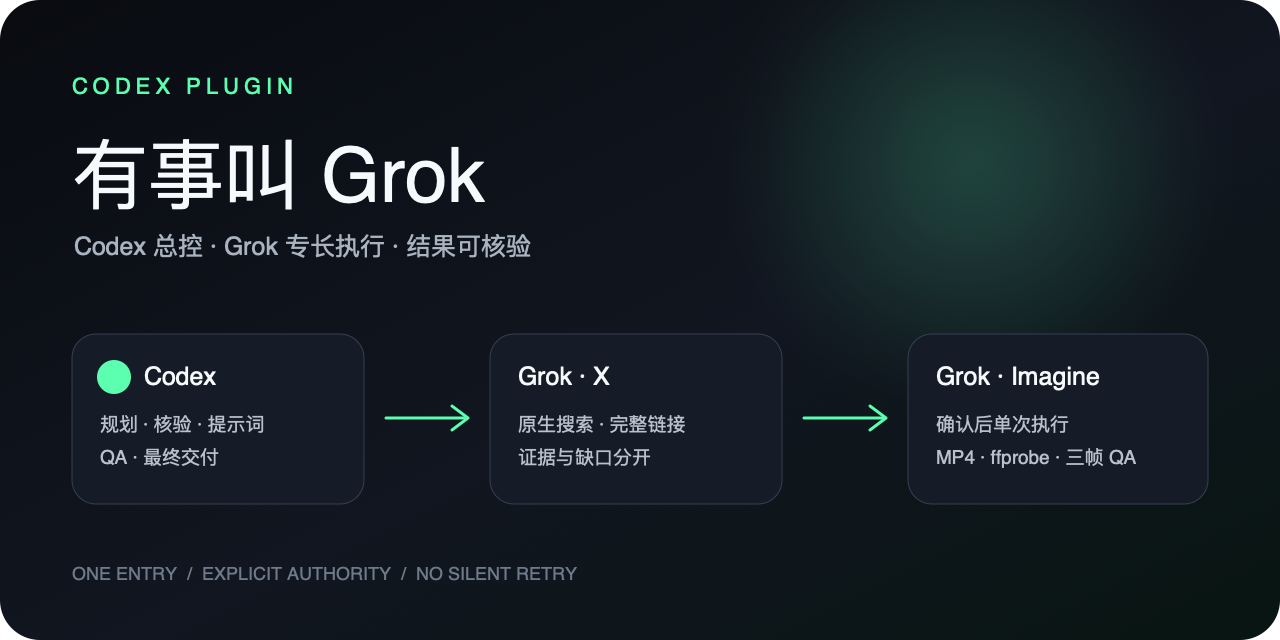
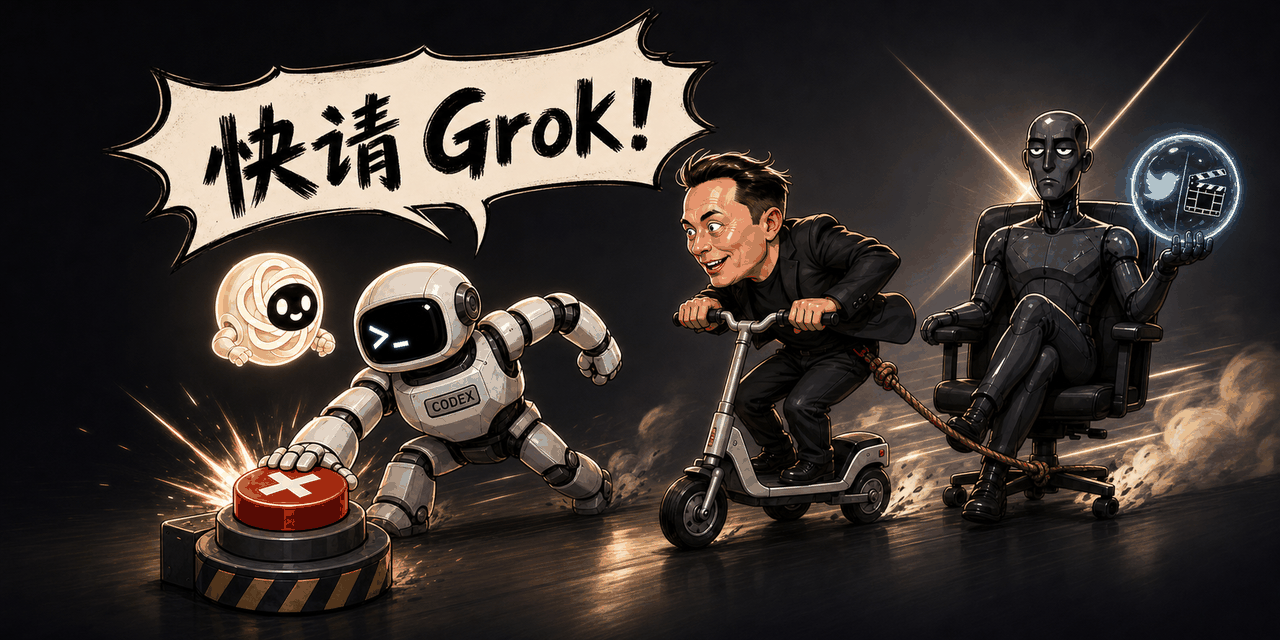
feat: refresh brand as 快请 Grok (#2)

diff --git a/plugins/call-grok/skills/call-grok/SKILL.md b/plugins/call-grok/skills/call-grok/SKILL.md
@@ -1,9 +1,9 @@
 ---
 name: call-grok
-description: Call Grok only when its distinctive capability is useful, while Codex remains the coordinator. Use when a user says to call, use, ask, install, configure, log in to, or troubleshoot Grok/Grok CLI; when X/Twitter-native intelligence is needed; or when a confirmed Grok Imagine video execution should be handed off. Detect a missing CLI, guide an authorized user-level install and OAuth login, preserve the original request, and resume it through grok-x or grok-video. The memorable user-facing idea is "有事叫 Grok".
+description: Call Grok only when its distinctive capability is useful, while Codex remains the coordinator. Use when a user says to call, use, ask, install, configure, log in to, or troubleshoot Grok/Grok CLI; when X/Twitter-native intelligence is needed; or when a confirmed Grok Imagine video execution should be handed off. Detect a missing CLI, guide an authorized user-level install and OAuth login, preserve the original request, and resume it through grok-x or grok-video. The memorable user-facing idea is "快请 Grok".
 ---
 
-# 有事叫 Grok
+# 快请 Grok
 
 Keep Codex as the planner, verifier, and final deliverer. Use Grok only for its distinct X-native retrieval, an explicitly requested independent opinion, or confirmed Imagine video execution.
 

diff --git a/plugins/call-grok/skills/grok-video/SKILL.md b/plugins/call-grok/skills/grok-video/SKILL.md
@@ -3,7 +3,7 @@ name: grok-video
 description: Execute and verify an explicitly confirmed Grok Imagine image-to-video request through Grok CLI while Codex retains creative control. Use when the user specifically wants Grok/Imagine video generation from a prepared source image, including a confirmed test or final shot. Enforce exact duration, resolution, input, quota/cost disclosure, one-call/no-retry behavior, local artifact collection, ffprobe validation, hashes, and sampled-frame QA. Do not use for ordinary image work or unconfirmed paid generation.
 ---
 
-# 有事叫 Grok · 视频
+# 快请 Grok · 视频
 
 Use Grok only as the video renderer. Keep concept, script, storyboard, camera direction, motion design, prompt writing, source-image preparation, QA, and delivery in Codex.
 

diff --git a/plugins/call-grok/skills/grok-x/SKILL.md b/plugins/call-grok/skills/grok-x/SKILL.md
@@ -3,7 +3,7 @@ name: grok-x
 description: Use Grok CLI as Codex's X-native research specialist. Trigger for X/Twitter post, account, thread, discourse, launch, rumor, sentiment, or real-time AI/product monitoring; requests to ask or search Grok; and recurring X intelligence reports. Return source-linked evidence for Codex to verify. Keep Grok video generation and the user's own authorized custom voice available only when explicitly requested and approved; do not route ordinary image generation, coding, TTS, STT, or general research here by default.
 ---
 
-# 有事叫 Grok · X 情报
+# 快请 Grok · X 情报
 
 Use Grok as a bounded specialist. Codex remains the orchestrator, verifier, and final writer.
 

diff --git a/SECURITY.md b/SECURITY.md
@@ -2,7 +2,7 @@
 
 ## Credential boundary
 
-有事叫 Grok 不读取、打印、复制或上传 Grok 的凭据文件。安装器只从 `https://x.ai/cli/install.sh` 下载，登录使用 Grok CLI 官方 OAuth 或 device-auth 流程，最终授权由用户完成。
+快请 Grok 不读取、打印、复制或上传 Grok 的凭据文件。安装器只从 `https://x.ai/cli/install.sh` 下载，登录使用 Grok CLI 官方 OAuth 或 device-auth 流程，最终授权由用户完成。
 
 请不要在 Issue、截图或日志中提交 token、API key、Cookie 或登录文件。如果秘密已暴露，请先在对应服务中撤销，再报告问题。
 

diff --git a/CHANGELOG.md b/CHANGELOG.md
@@ -2,6 +2,11 @@
 
 所有值得用户注意的变化都会记录在这里
 
+## Unreleased
+
+- 中文品牌名由“有事叫 Grok”更新为“快请 Grok”，保留插件 ID、仓库名和安装命令 `call-grok`
+- 替换 README Hero 与 Social Preview，用漫画场景表达 GPT 协助思考、Codex 总控、Grok 按需出手
+
 ## 1.1.0 - 2026-08-01
 
 - 重构公开 README 的价值、安装、首次成功、验证和治理路径

diff --git a/README.en.md b/README.en.md
@@ -1,5 +1,5 @@
 <p align="center">
-  <img src="assets/call-grok-hero.svg" alt="Call Grok: Codex coordinates while Grok handles X-native intelligence and confirmed Imagine video execution" width="100%">
+  <img src="assets/call-grok-hero.png" alt="Call Grok: GPT advises, Codex hits the X button, and Elon Musk tows in Grok for X-native intelligence and Imagine video" width="100%">
 </p>
 
 <p align="center">
